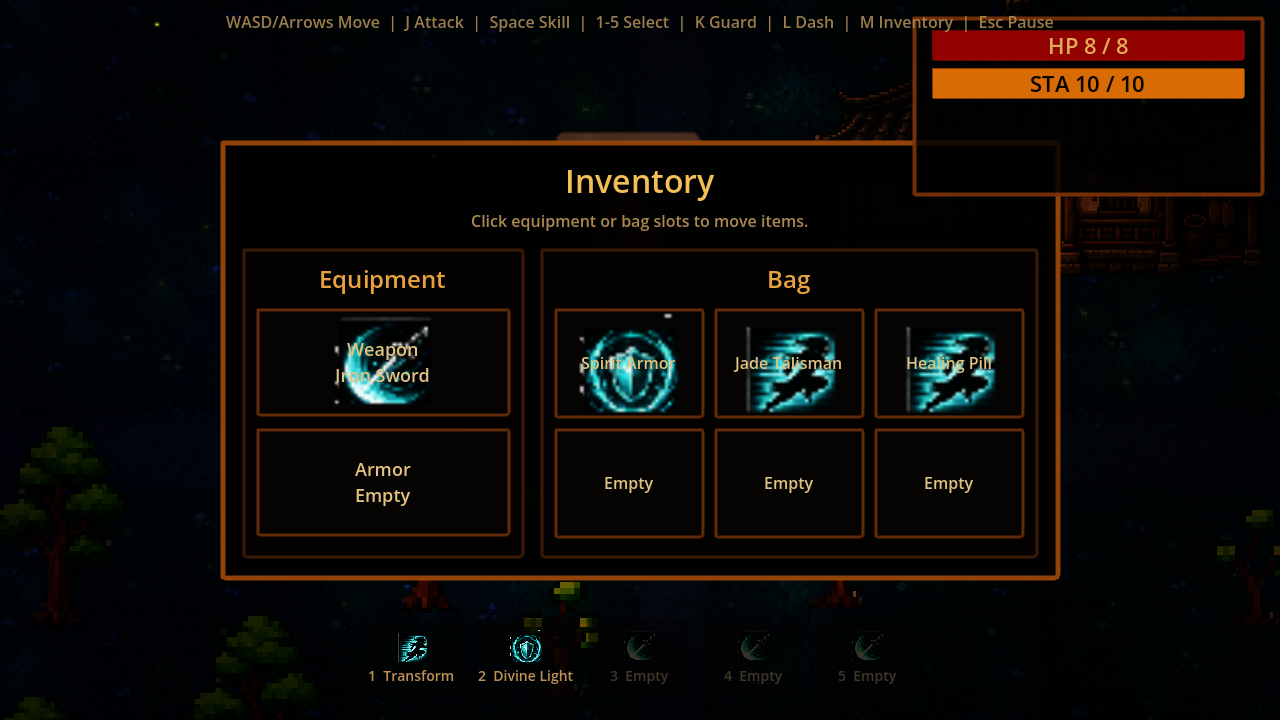
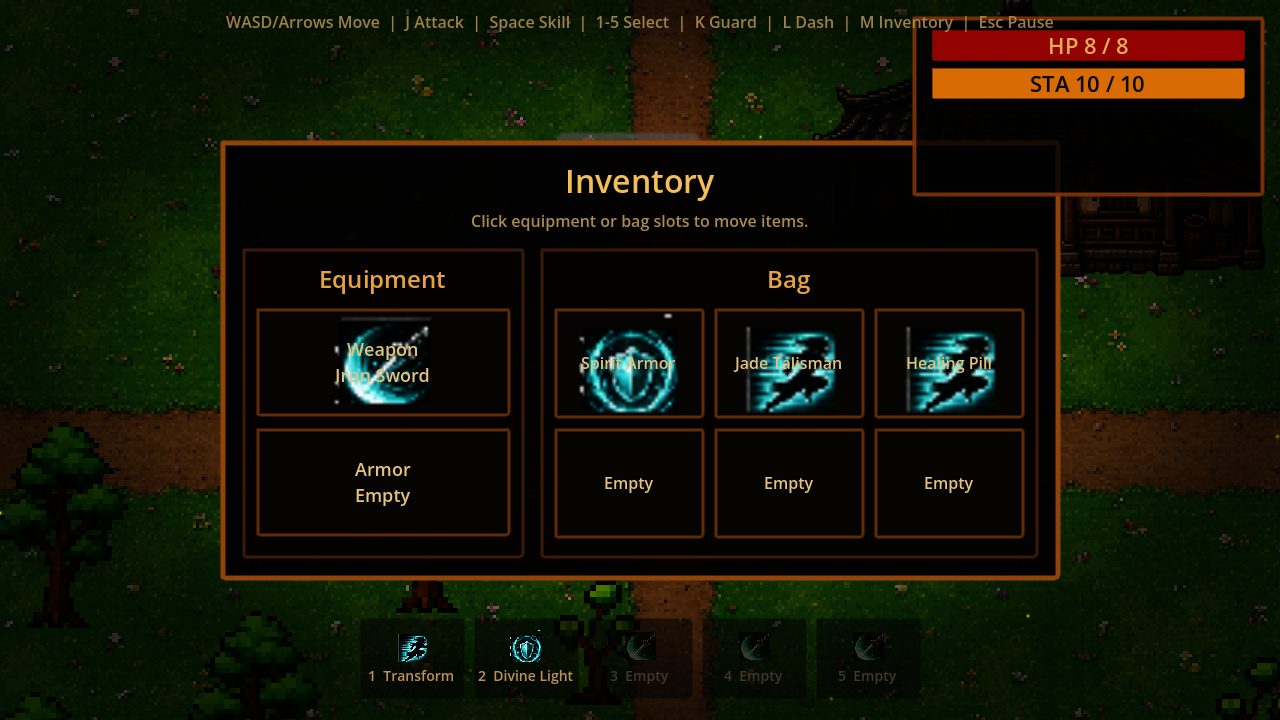
Showcase day night switching

diff --git a/README.md b/README.md
@@ -2,35 +2,40 @@
 
 **A tiny moonlit xianxia action RPG prototype made in Godot 4.**
 
-Wander through a haunted village under cold blue light, draw a blade against wandering spirits, dash past fire-lit beasts, and test the first pieces of a survival-action combat loop inspired by wuxia and xianxia fantasy.
+Wander through a village that shifts between bright grassland and cold moonlight, draw a blade against wandering spirits, dash past fire-lit beasts, and test the first pieces of a survival-action combat loop inspired by wuxia and xianxia fantasy.
 
-![Moonlit Jianghu world overview](docs/showcase/images/01-world-overview.png)
+![Moonlit Jianghu fire lion encounter](docs/showcase/images/02-day-fire-lion-encounter.png)
 
 ## Why This Exists
 
-Moonlit Jianghu is an unfinished but playable snapshot: a preserved prototype of a top-down pixel-art action RPG with night ambience, melee combat, hostile creatures, inventory UI, and a small handcrafted village map.
+Moonlit Jianghu is an unfinished but playable snapshot: a preserved prototype of a top-down pixel-art action RPG with day-night switching, melee combat, hostile creatures, inventory UI, and a small handcrafted village map.
 
 It is not a polished commercial release. It is a mood piece, a combat sketch, and a visual experiment that reached the point where it deserved to be shown.
 
 ## Highlights
 
-- **Moonlit xianxia village** with tiled night ground, lantern-lit buildings, trees, rocks, breakables, and drifting magical particles.
+- **Day-night village mood** that can be switched in-game with `P`, moving between bright green grassland and a colder moonlit atmosphere.
+- **Xianxia village scenery** with tiled ground, lantern-lit buildings, trees, rocks, breakables, and drifting magical particles.
 - **Snappy top-down combat** with movement, dash, melee attacks, guard timing, stamina pressure, hit flashes, knockback, and impact feedback.
 - **Enemy encounters** featuring skeletal attackers, zombies, fast enemies, and a blazing fire-lion variant.
 - **Skill bar and inventory overlay** with equipment slots, bag slots, and simple prototype RPG affordances.
 - **AI-assisted pixel-art pipeline** for cleaning, extracting, and aligning generated sprite sheets into Godot-ready transparent assets.
 
-![Fire lion encounter](docs/showcase/images/02-fire-lion-encounter.png)
+![Night fire lion encounter](docs/showcase/images/05-night-fire-lion-encounter.png)
 
 ## Screenshots
 
-| Village | Combat |
+| Day Village | Day Combat |
 | --- | --- |
-| ![Night village](docs/showcase/images/04-night-village.png) | ![Fire lion encounter](docs/showcase/images/02-fire-lion-encounter.png) |
+| ![Day village](docs/showcase/images/01-day-village.png) | ![Day fire lion encounter](docs/showcase/images/02-day-fire-lion-encounter.png) |
 
-| Inventory | Overview |
+| Night Village | Night Combat |
 | --- | --- |
-| ![Inventory overlay](docs/showcase/images/03-inventory-overlay.png) | ![World overview](docs/showcase/images/01-world-overview.png) |
+| ![Night village](docs/showcase/images/04-night-village.png) | ![Night fire lion encounter](docs/showcase/images/05-night-fire-lion-encounter.png) |
+
+| Inventory |
+| --- |
+| ![Inventory overlay](docs/showcase/images/03-inventory-overlay.png) |
 
 ## Play Notes
 
@@ -50,7 +55,7 @@ Unsigned builds may trigger operating-system security prompts.
 - Use selected skill: `Space`
 - Select skills: `1`-`5`
 - Inventory: `M`
-- Toggle night ambience: `P`
+- Toggle day/night: `P`
 - Reset scene: `R`
 
 ## Showcase Docs

diff --git a/docs/showcase/SHOWCASE_EN.md b/docs/showcase/SHOWCASE_EN.md
@@ -2,9 +2,9 @@
 
 An unfinished Godot 4 top-down action RPG prototype with a retro xianxia mood.
 
-This project is not a finished game. It is a playable snapshot of an experiment: movement, melee combat, enemy behavior, a small village map, night ambience, simple inventory UI, and a collection of AI-assisted pixel-art asset experiments.
+This project is not a finished game. It is a playable snapshot of an experiment: movement, melee combat, enemy behavior, a small village map, day-night switching, simple inventory UI, and a collection of AI-assisted pixel-art asset experiments.
 
-![World overview](images/01-world-overview.png)
+![Day fire lion encounter](images/02-day-fire-lion-encounter.png)
 
 ## Download Builds
 
@@ -22,10 +22,10 @@ The macOS build is unsigned, so macOS may ask players to right-click and choose 
 - Top-down player movement with dash, melee attacks, blocking, stamina, and combat feedback.
 - Enemy encounters including skeleton-style enemies, fast enemies, zombies, and a fire-lion variant.
 - A small curated village map with houses, trees, breakable objects, landmarks, and boundary walls.
-- Night ambience with darker ground art, lights, firefly-like particles, and mood effects.
+- Switchable day and night ambience with bright grassland, darker ground art, lights, firefly-like particles, and mood effects.
 - A lightweight inventory overlay with equipment and bag slots.
 
-![Fire lion encounter](images/02-fire-lion-encounter.png)
+![Day village](images/01-day-village.png)
 
 ## Controls
 
@@ -36,7 +36,7 @@ The macOS build is unsigned, so macOS may ask players to right-click and choose 
 - Use selected skill: `Space`
 - Select skills: `1`-`5`
 - Inventory: `M`
-- Toggle night ambience: `P`
+- Toggle day/night: `P`
 - Reset scene: `R`
 
 ![Inventory overlay](images/03-inventory-overlay.png)
@@ -48,6 +48,8 @@ This is a stopping point, not a production release. Some tests still describe ol
 The most honest way to view it is as a preserved prototype: a record of the game direction, the visual experiments, and the combat feel that made it far enough to be shared.
 
 ![Night village](images/04-night-village.png)
+
+![Night fire lion encounter](images/05-night-fire-lion-encounter.png)
 
 ## Building Locally
 

diff --git a/docs/showcase/SHOWCASE_ZH.md b/docs/showcase/SHOWCASE_ZH.md
@@ -2,9 +2,9 @@
 
 一个未完成的 Godot 4 俯视角动作 RPG 原型，方向是复古像素 + 修仙氛围。
 
-这不是一个完成品。它更像是一次实验的存档：移动、近战、敌人、一个小村庄地图、夜晚氛围、简单背包 UI，以及一批 AI 辅助像素素材的尝试。
+这不是一个完成品。它更像是一次实验的存档：移动、近战、敌人、一个小村庄地图、昼夜切换、简单背包 UI，以及一批 AI 辅助像素素材的尝试。
 
-![世界概览](images/01-world-overview.png)
+![白天火狮遭遇](images/02-day-fire-lion-encounter.png)
 
 ## 下载构建
 
@@ -22,10 +22,10 @@ macOS 包没有签名，第一次打开可能需要右键选择 Open。Windows e
 - 俯视角移动、冲刺、近战攻击、防御、体力和战斗反馈。
 - 敌人遭遇，包括骷髅风格敌人、快速敌人、僵尸，以及火狮变体。
 - 一个小型村庄地图，有房屋、树、可破坏物、地标和边界墙。
-- 夜晚氛围，包括夜色地面、光源、类似萤火的粒子和环境效果。
+- 可切换的白天和夜晚氛围，包括明亮草地、夜色地面、光源、类似萤火的粒子和环境效果。
 - 一个轻量背包界面，包含装备位和背包格。
 
-![火狮遭遇](images/02-fire-lion-encounter.png)
+![白天村庄](images/01-day-village.png)
 
 ## 操作
 
@@ -36,7 +36,7 @@ macOS 包没有签名，第一次打开可能需要右键选择 Open。Windows e
 - 使用当前技能：`Space`
 - 选择技能：`1`-`5`
 - 背包：`M`
-- 切换夜晚氛围：`P`
+- 切换白天/夜晚：`P`
 - 重置场景：`R`
 
 ![背包界面](images/03-inventory-overlay.png)
@@ -48,6 +48,8 @@ macOS 包没有签名，第一次打开可能需要右键选择 Open。Windows e
 比较诚实的看法是：这是一个被保存下来的原型。它记录了游戏方向、视觉尝试，以及已经能被分享出来的战斗手感。
 
 ![夜晚村庄](images/04-night-village.png)
+
+![夜晚火狮遭遇](images/05-night-fire-lion-encounter.png)
 
 ## 本地运行和导出
 